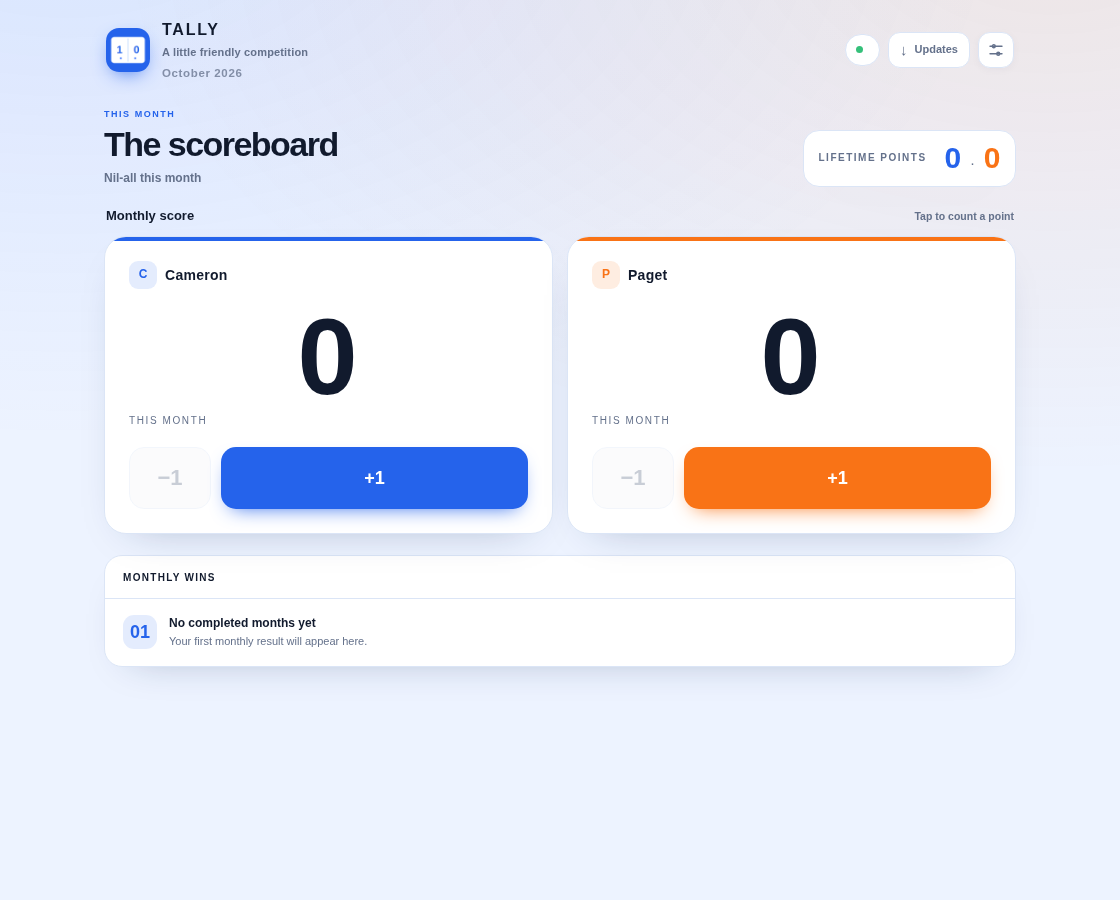
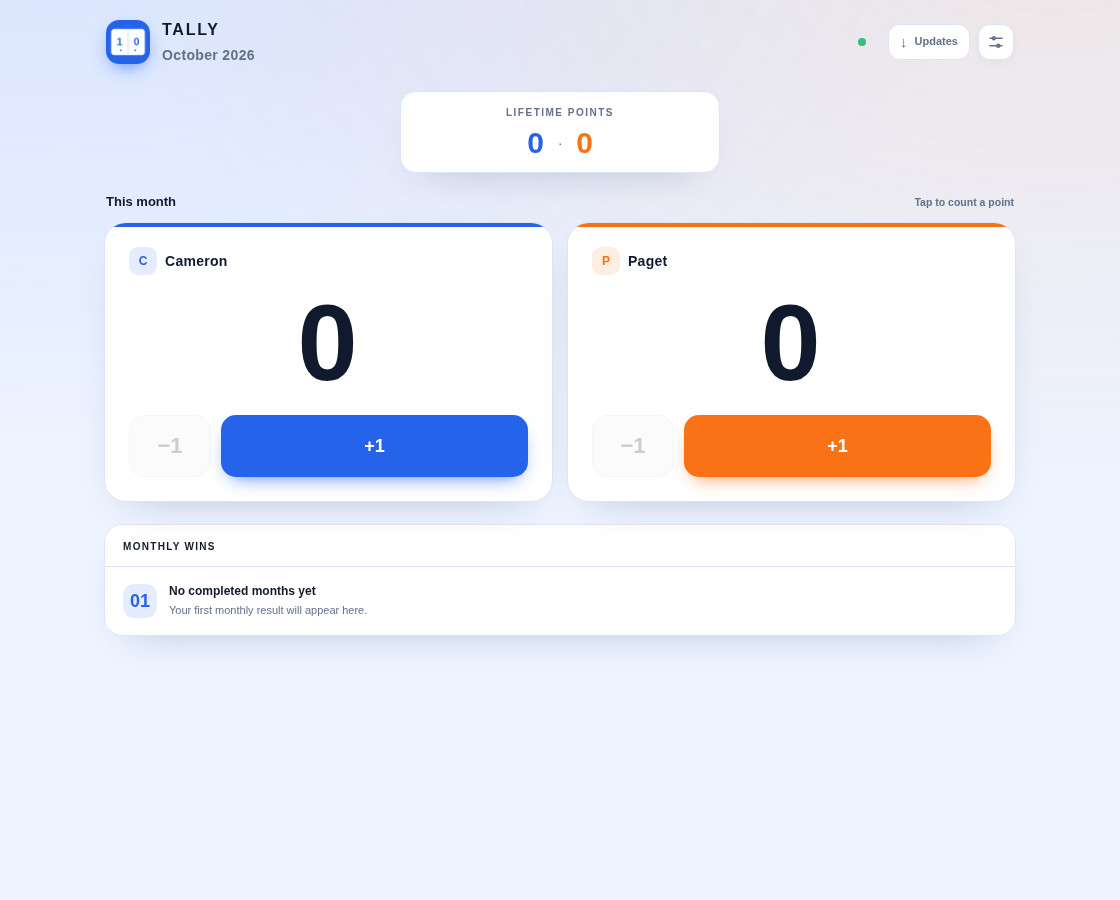
2.0.5: simplify scoreboard hierarchy
Trim redundant labels, move lifetime totals into a centered panel, enlarge the
period date, and reduce sync and behind-player indicators to unboxed details.
Refresh the README screenshots for the quieter layout.

diff --git a/server.py b/server.py
@@ -14,7 +14,7 @@ PORT = int(os.environ.get("TALLY_PORT", "8080"))
 PLAYERS = ("cameron", "paget")
 LABELS = {"cameron": "Cameron", "paget": "Paget"}
 
-APP_VERSION = "2.0.4"
+APP_VERSION = "2.0.5"
 UPDATE_REPO = "Boldestfutura/Tally"
 UPDATE_BRANCH = "main"
 UPDATE_DIR = os.path.dirname(DATA) or "."
@@ -418,31 +418,34 @@ PAGE = """<!doctype html>
   .wrap{position:relative;z-index:1;max-width:760px;margin:0 auto;padding:0 16px;
         display:flex;flex-direction:column;min-height:100%}
   header{display:flex;align-items:center;justify-content:space-between;
-         gap:12px;padding:6px 2px 18px}
+         gap:12px;padding:6px 2px 16px}
   .h-left{display:flex;align-items:center;gap:10px;min-width:0}
   .h-right{display:flex;align-items:center;gap:10px;flex:0 0 auto}
   .logo{display:block;flex:0 0 auto}
   .logo .sa{stroke:var(--a)}
   .logo .sb{stroke:var(--b)}
   .logo .slash{stroke:var(--ink);opacity:.62}
-  .titles{display:flex;flex-direction:column;gap:1px;min-width:0}
+  .titles{display:flex;flex-direction:column;gap:3px;min-width:0}
   .brand{font-size:14px;font-weight:650;letter-spacing:.2em;text-transform:uppercase;
          color:var(--muted);margin:0}
-  .period{font-size:12.5px;font-weight:600;color:var(--ink);margin:0;opacity:.75}
-  .sync{font-size:11.5px;color:var(--muted);display:flex;align-items:center;gap:6px}
-  .dot{width:7px;height:7px;border-radius:50%;background:#35c07a;flex:0 0 auto;transition:background .2s}
+  .period{font-size:14px;font-weight:700;letter-spacing:.025em;color:var(--muted);margin:0}
+  .sync{display:grid;place-items:center;width:36px;height:36px;flex:0 0 auto}
+  .sync-text{position:absolute;width:1px;height:1px;padding:0;margin:-1px;overflow:hidden;
+         clip:rect(0,0,0,0);white-space:nowrap;border:0}
+  .dot{width:8px;height:8px;border-radius:50%;background:#35c07a;transition:background .2s}
   .sync[data-off="1"] .dot{background:#e0a32e}
-  .sync[data-off="1"]{color:#e0a32e}
 
-  .life{display:flex;flex-direction:column;align-items:center;gap:3px;margin:-2px 0 15px}
+  .life{display:flex;flex-direction:column;align-items:center;gap:7px;margin:2px auto 20px;
+        width:min(100%,320px);padding:14px 20px;border:1px solid var(--card-brd);
+        border-radius:16px;background:var(--card);box-shadow:var(--shadow);text-align:center}
   .life .cap{font-size:9.5px;letter-spacing:.2em;text-transform:uppercase;
              color:var(--muted);font-weight:650}
-  .life .vals{display:flex;align-items:baseline;gap:12px;
-              font-variant-numeric:tabular-nums;letter-spacing:-.02em}
+  .life .vals{display:flex;align-items:center;justify-content:center;gap:14px;
+               font-variant-numeric:tabular-nums;letter-spacing:-.02em}
   .life b{font-size:27px;font-weight:750;line-height:1}
   .life .lc{color:var(--a)}
   .life .lp{color:var(--b)}
-  .life .sep{color:var(--muted);font-size:15px;font-weight:500}
+  .life .sep{display:grid;place-items:center;color:var(--muted);font-size:15px;font-weight:500;line-height:1}
 
   .grid{display:grid;grid-template-columns:1fr;gap:12px}
   @media (min-width:640px){ .grid{grid-template-columns:1fr 1fr} }
@@ -479,8 +482,6 @@ PAGE = """<!doctype html>
   }
   .score .n{display:block;will-change:transform,opacity;backface-visibility:hidden}
   .score .ghost{position:absolute;left:0;right:0;top:0}
-  .pts{font-size:10.5px;letter-spacing:.14em;text-transform:uppercase;color:var(--muted);margin:0 0 11px}
-
   .row{display:flex;gap:9px}
   button{
     font:inherit;cursor:pointer;border-radius:15px;border:1px solid transparent;
@@ -670,11 +671,8 @@ PAGE = """<!doctype html>
   .logo{width:44px;height:44px;border-radius:13px;object-fit:cover;box-shadow:0 7px 20px -8px var(--a)}
   .titles{gap:4px}
   .brand{font-size:16px;letter-spacing:.11em;color:var(--ink);font-weight:800}
-  .tagline{margin:0;color:var(--muted);font-size:11px;font-weight:550;letter-spacing:.015em}
-  .period{font-size:11.5px;letter-spacing:.055em;color:var(--muted);font-weight:650}
-  .h-right{gap:8px}
-  .sync{padding:7px 10px;border:1px solid var(--card-brd);border-radius:999px;
-        background:var(--card);font-size:11px;font-weight:650;min-height:32px}
+   .period{font-size:14px;letter-spacing:.025em;color:var(--muted);font-weight:700}
+   .h-right{gap:8px}
    .settings-trigger{width:36px;height:36px}
   .update-btn{display:flex;align-items:center;gap:7px;min-height:36px;padding:0 11px;
               border:1px solid var(--card-brd);border-radius:12px;background:var(--card);
@@ -682,17 +680,8 @@ PAGE = """<!doctype html>
   .update-glyph{font-size:15px;line-height:1;font-weight:850}
   .update-btn[data-ready="1"]{border-color:color-mix(in srgb,var(--a) 38%,var(--card-brd));
                                background:var(--a-soft);color:var(--a)}
-  .overview{display:flex;align-items:flex-end;justify-content:space-between;gap:18px;margin:2px 0 20px}
-  .overview-copy{min-width:0}
-  .eyebrow{margin:0 0 5px;color:var(--a);font-size:9px;font-weight:850;letter-spacing:.17em}
-  .overview h1{margin:0;font-size:clamp(24px,5vw,34px);line-height:1.08;letter-spacing:-.045em}
-  .overview .lead{margin:7px 0 0;min-height:1.25em;text-align:left;font-size:12px;font-weight:650}
-  .life{flex:0 0 auto;align-items:center;flex-direction:row;justify-content:space-between;gap:18px;
-        margin:0;padding:12px 15px;border:1px solid var(--card-brd);
-        border-radius:16px;background:var(--card);box-shadow:var(--shadow)}
-  .life .cap{font-size:10px;letter-spacing:.15em;color:var(--muted)}
-  .life .vals{gap:9px}
-  .life b{font-size:clamp(22px,4vw,30px);font-weight:800}
+   .life .cap{font-size:10px;letter-spacing:.15em;color:var(--muted)}
+   .life b{font-size:clamp(22px,4vw,30px);font-weight:800}
   .section-head{display:flex;align-items:baseline;justify-content:space-between;gap:12px;
                 margin:0 2px 10px;color:var(--ink);font-size:13px;font-weight:800}
   .section-head span+span{color:var(--muted);font-size:10.5px;font-weight:600}
@@ -708,15 +697,14 @@ PAGE = """<!doctype html>
   .name::before{content:attr(data-initial);display:grid;place-items:center;width:28px;height:28px;
                 border-radius:9px;background:var(--accent-soft);color:var(--accent);font-size:12px;
                 font-weight:850;letter-spacing:0}
-   .score{margin:14px 0 3px;font-size:clamp(70px,13vw,108px);font-weight:780;
+   .score{margin:14px 0 18px;font-size:clamp(70px,13vw,108px);font-weight:780;
           letter-spacing:.02em;text-align:center}
-  .pts{margin:0 0 18px;font-size:10px;letter-spacing:.16em;color:var(--muted)}
-  .row{gap:10px}
+   .row{gap:10px}
   .row button{min-height:54px;border-radius:15px}
   .sub{flex:0 0 82px;font-size:22px;background:var(--faint);border-color:var(--card-brd);color:var(--muted)}
   .add{font-size:18px;font-weight:800;background:var(--accent);box-shadow:0 8px 20px -10px var(--accent)}
-  .nudge{padding:9px 14px;border-radius:12px;background:var(--a-soft);color:var(--a);
-         font-size:12px;font-weight:700}
+   .nudge{padding:0;border:0;border-radius:0;background:transparent;color:var(--a);
+          font-size:12px;font-weight:700}
   .nudge:empty{display:none}
   .hist{margin-top:22px;border:1px solid var(--card-brd);border-radius:18px;
         background:var(--card);box-shadow:var(--shadow)}
@@ -757,9 +745,7 @@ PAGE = """<!doctype html>
     .h-right{gap:6px}
     .update-btn{width:36px;padding:0;justify-content:center}
     .update-btn .update-label{display:none}
-    .overview{align-items:flex-start;flex-direction:column;gap:12px}
-    .life{width:100%;padding:11px 13px}
-    .sub{flex-basis:66px}
+     .sub{flex-basis:66px}
   }
 </style>
 </head>
@@ -770,15 +756,14 @@ PAGE = """<!doctype html>
 <div class="wrap">
   <header>
    <div class="h-left">
-     <img class="logo" src="/icon-192.png?v=__APP_VERSION__" alt="Tally logo">
-     <div class="titles">
-       <p class="brand">Tally</p>
-       <p class="tagline">A little friendly competition</p>
-       <p class="period" id="period"></p>
+      <img class="logo" src="/icon-192.png?v=__APP_VERSION__" alt="Tally logo">
+      <div class="titles">
+        <p class="brand">Tally</p>
+        <p class="period" id="period"></p>
+      </div>
      </div>
-    </div>
      <div class="h-right">
-      <span class="sync" id="sync" title="connection"><span class="dot"></span><span id="syncText"></span></span>
+      <span class="sync" id="sync" title="Connected" aria-label="Connected"><span class="dot"></span><span class="sync-text" id="syncText"></span></span>
        <button class="update-btn" id="updates" type="button" aria-label="Tally updates" data-ready="0">
         <span class="update-glyph" aria-hidden="true">↓</span><span class="update-label" id="updateLabel">Updates</span></button>
       <div class="settings-wrap" id="settingsWrap">
@@ -812,19 +797,12 @@ PAGE = """<!doctype html>
     </div>
   </header>
 
-   <div class="overview">
-     <div class="overview-copy">
-       <p class="eyebrow">THIS MONTH</p>
-       <h1>The scoreboard</h1>
-       <p class="lead" id="lead"></p>
-     </div>
-     <div class="life">
-       <span class="cap">LIFETIME POINTS</span>
-       <div class="vals"><b class="lc" id="lifeC">0</b><span class="sep">\u00b7</span><b class="lp" id="lifeP">0</b></div>
-     </div>
+   <div class="life">
+     <span class="cap">LIFETIME POINTS</span>
+     <div class="vals"><b class="lc" id="lifeC">0</b><span class="sep">\u00b7</span><b class="lp" id="lifeP">0</b></div>
    </div>
 
-   <div class="section-head"><span>Monthly score</span><span>Tap to count a point</span></div>
+   <div class="section-head"><span>This month</span><span>Tap to count a point</span></div>
    <div class="grid" id="grid"></div>
 
   <p class="nudge" id="nudge" role="status"></p>
@@ -924,7 +902,6 @@ const RALLY=[
  "{name}, time to make it interesting.",
  "Bigger leads than this have gone.",
  "Deep breath, {name}. One at a time.",
- "The scoreboard isn't the final word.",
  "{name}, make them nervous.",
  "Underdogs are more fun to watch anyway.",
  "Keep going, {name} \\u2014 it only takes a streak.",
@@ -952,7 +929,6 @@ for(const [who,label] of PLAYERS){
   c.innerHTML=
     '<p class="name" data-initial="'+label[0]+'">'+label+'</p>'+
     '<div class="score" id="s-'+who+'"><span class="n">0</span></div>'+
-    '<p class="pts">this month</p>'+
     '<div class="row">'+
       '<button class="sub" data-who="'+who+'" data-delta="-1" aria-label="Remove a point from '+label+'">\\u22121</button>'+
       '<button class="add" data-who="'+who+'" data-delta="1" aria-label="Add a point to '+label+'">+1</button>'+
@@ -1257,10 +1233,6 @@ function render(){
   document.getElementById('tintB').style.opacity=(0.3 + 1.4*(1-share)).toFixed(3);
 
   const d=scores.cameron-scores.paget;
-  const lead=document.getElementById('lead');
-  if(total===0) lead.textContent='Nil-all this month';
-  else if(d===0) lead.textContent='All square this month at '+scores.cameron;
-  else lead.textContent=(d>0?'Cameron':'Paget')+' leads by '+Math.abs(d)+' this month';
 
   document.querySelectorAll('.sub').forEach(b=>{ b.disabled = scores[b.dataset.who]<=0; });
   document.getElementById('lifeC').textContent=life.cameron;
@@ -1391,13 +1363,14 @@ function setSync(ok){
   const s=document.getElementById('sync');
   const n=pendingCount();
   s.dataset.off = (ok && !n) ? '0':'1';
-  // stay silent while everything is through; otherwise say what is owed and,
-  // with no signal, how old the numbers on screen are - "reconnecting" on its
-  // own tells you nothing about whether you can trust what you are looking at
   const t=document.getElementById('syncText');
-  if(n) t.textContent = pendingWord();
-  else if(ok) t.textContent = '';
-  else t.textContent = savedAt ? 'offline \u00b7 ' + ago(savedAt) : 'reconnecting';
+  let status;
+  if(n) status=pendingWord();
+  else if(ok) status='Connected';
+  else status=savedAt ? 'Offline \u00b7 ' + ago(savedAt) : 'Reconnecting';
+  t.textContent=status;
+  s.setAttribute('aria-label',status);
+  s.title=status;
 }
 
 async function post(path,body){
